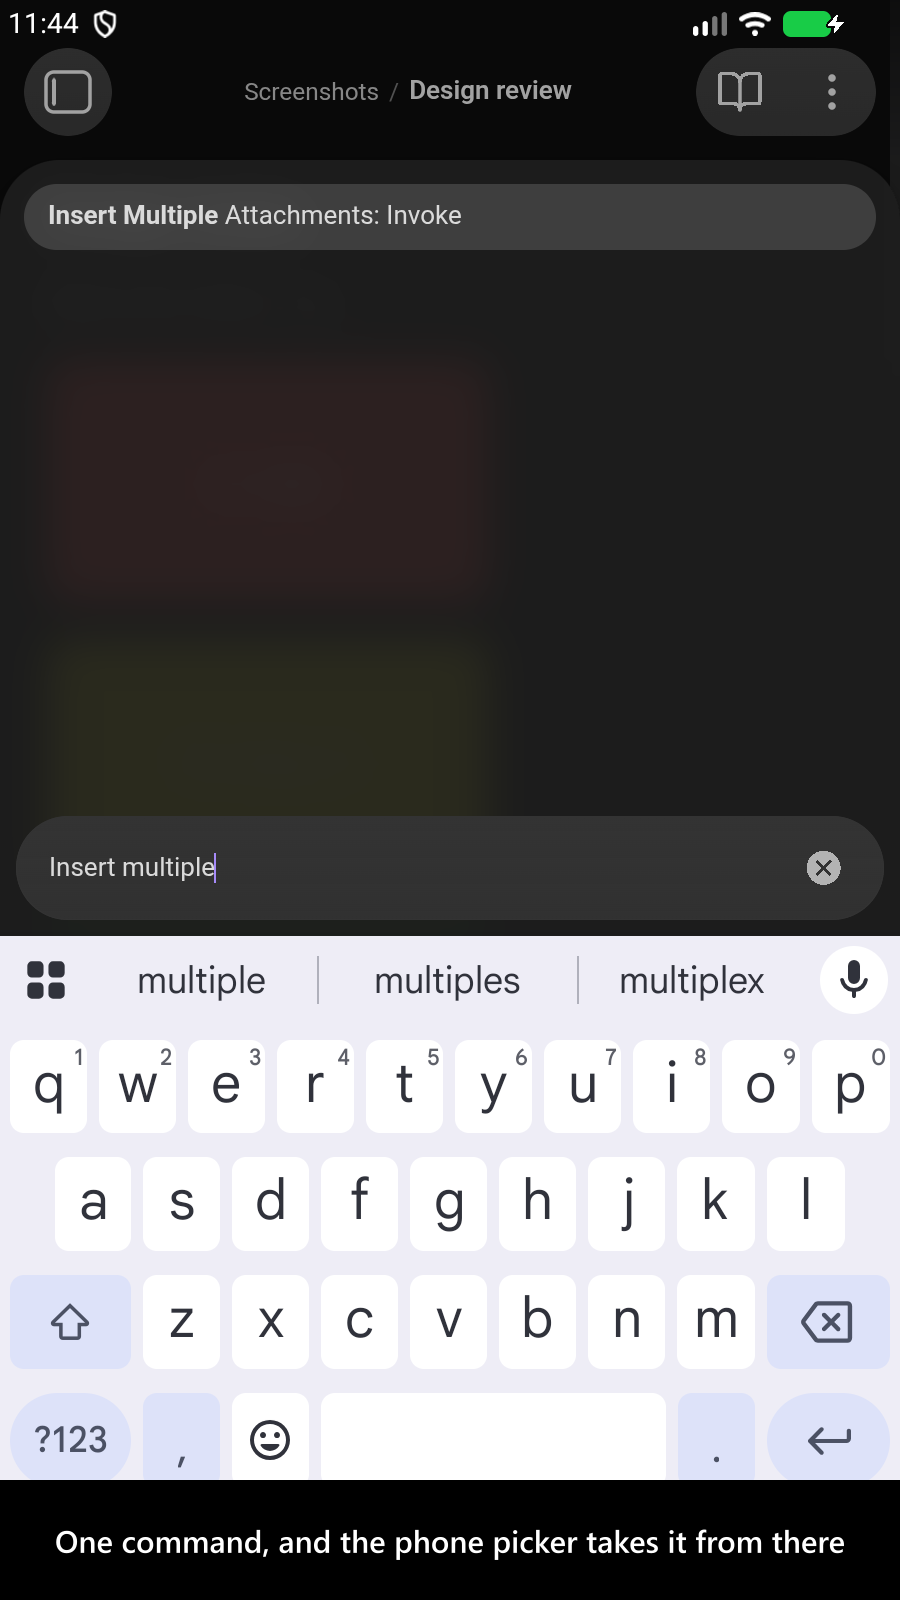
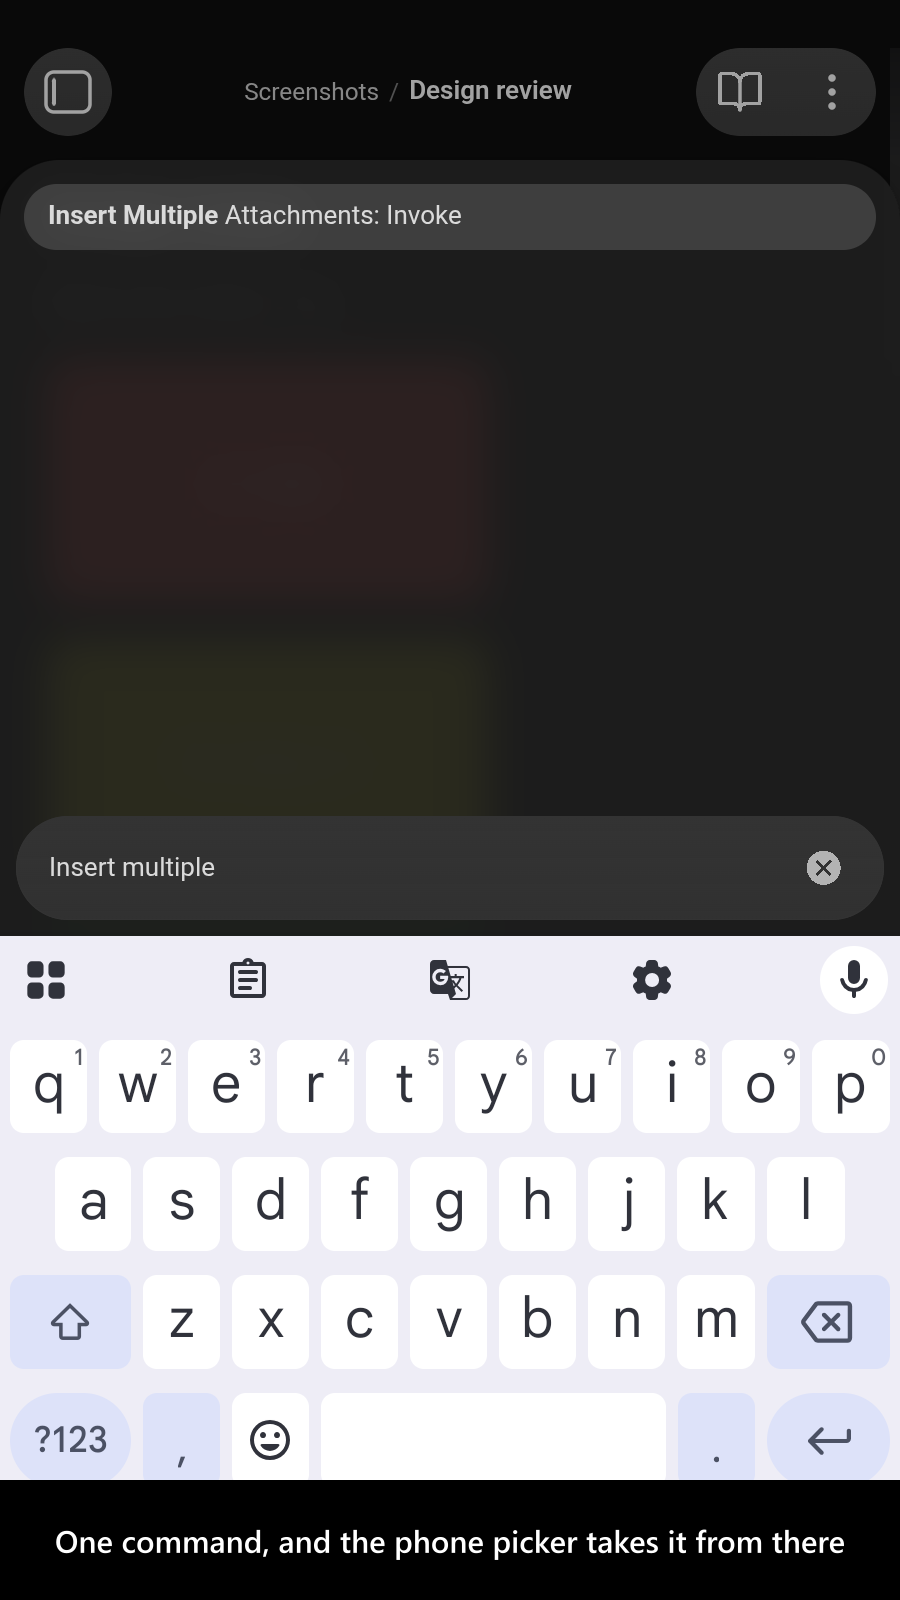
fix(screenshots): make the mobile command-palette frame repeatable
The palette frame is a device capture, so it carried the status-bar clock
and battery, and its keyboard strip flipped between the toolbar and word
predictions from run to run. The status bar is now painted out with
paintOutStatusBar at the 48px measured on this AVD, and
obsidian-integration-testing 17.2.0 pins the strip to the toolbar. Two
back-to-back capture runs now write byte-identical mobile frames.

diff --git a/src/screenshots.android-capture.integration.test.ts b/src/screenshots.android-capture.integration.test.ts
@@ -38,6 +38,7 @@ import {
   captureObsidianScreenshot,
   evalInObsidian,
   labelScreenshot,
+  paintOutStatusBar,
   raiseSoftKeyboard,
   readPngDimensions,
   resolveEmulatorDeviceId,
@@ -100,6 +101,18 @@ const INPUT_SELECTOR = '.prompt input';
  * machine, and the shared AVD the cross-platform suites drive is a different size.
  */
 const AVD_NAME = 'obsidian_screenshots';
+
+/**
+ * How tall the device's status bar is, in framebuffer pixels, for {@link shootWithSoftKeyboard}.
+ *
+ * The harness deliberately has no default for this, because a wrong height paints over the product rather
+ * than failing: it is one AVD's measurement, not a constant of Android. 24dp at this AVD's density 320,
+ * and measured on a palette frame rather than assumed: the bar's own content occupies rows 10 to 37, rows
+ * 38 to 47 are empty, and Obsidian's top chrome starts at exactly row 48. `paintOutStatusBar`'s own
+ * clear-of-chrome check fails the capture if that ever stops being true, so this number cannot go stale
+ * quietly.
+ */
+const STATUS_BAR_HEIGHT_IN_PIXELS = 48;
 
 let deviceId = '';
 
@@ -356,7 +369,7 @@ async function pickAttachments(): Promise<number> {
  * `images/screenshots/screenshot-mobile-<index>.png`.
  *
  * The page capture is byte-reproducible — no status bar, no clock — which is why the shot that shows the
- * saved attachments keeps it. Only a shot that has to show the keyboard gives that up; see
+ * saved attachments keeps it. Only a shot that has to show the keyboard captures the device instead; see
  * {@link shootWithSoftKeyboard}.
  *
  * @param index - The 1-based listing position.
@@ -381,8 +394,10 @@ async function shoot(index: number, caption: string): Promise<void> {
  * and puts the setting back exactly; and a WebView will not ask for an IME on programmatic focus alone,
  * so `raiseSoftKeyboard` lands a real touch on the field and proves geometrically that it lifted.
  *
- * The trade, which applies to this shot alone: a device capture is **not** byte-reproducible, because the
- * status-bar clock and the battery indicator are in it.
+ * A device capture carries the status bar, whose clock and battery change between runs, so the band is
+ * painted out with `paintOutStatusBar` before the frame is written. The keyboard's suggestion strip is the
+ * other thing that used to move: `raiseSoftKeyboard` parks the caret at the start of the field, so the keyboard
+ * shows its toolbar rather than word predictions that vary between runs.
  *
  * @param index - The 1-based listing position.
  * @param caption - The caption drawn across the bottom of the frame.
@@ -401,7 +416,7 @@ async function shootWithSoftKeyboard(index: number, caption: string): Promise<vo
     deviceId
   });
 
-  await writeFrame(index, caption, captured);
+  await writeFrame(index, caption, await paintOutStatusBar(captured, { heightInPixels: STATUS_BAR_HEIGHT_IN_PIXELS }));
 }
 
 function vaultPath(): string {

diff --git a/AGENTS.md b/AGENTS.md
@@ -46,7 +46,8 @@ Insert Multiple Attachments is an Obsidian plugin that allows inserting multiple
 
 `npm run capture:screenshots` writes the two community-store mobile frames. The two frames are captured by **different routes on purpose**, and the difference is load-bearing:
 
-- **Frame 1 — the saved attachments — captures the PAGE** (`captureObsidianScreenshot`), which is byte-reproducible: no status bar and no clock, so re-capturing it produces identical bytes and an unchanged frame leaves no diff.
-- **Frame 2 — the command palette — captures the DEVICE** (`captureDeviceScreenshot`), with the soft keyboard raised first. A page capture cannot show a keyboard: it drives Appium in the WebView context, so it photographs the page, and the IME is a system window that is not part of the page. That left this frame as a search field floating over an empty band across three quarters of the image — honest about the DOM and misleading about the phone. **The cost is that frame 2 is no longer byte-reproducible**, because the status-bar clock and the battery indicator are in it. Do not "fix" that churn by putting it back on the page capture, and do not switch frame 1 over for consistency — a shot with no focused field gets no keyboard on a real phone either, so raising one there would make the frame less true.
+- **Frame 1 — the saved attachments — captures the PAGE** (`captureObsidianScreenshot`), which is byte-reproducible as captured: no status bar and no clock, so re-capturing it produces identical bytes and an unchanged frame leaves no diff.
+- **Frame 2 — the command palette — captures the DEVICE** (`captureDeviceScreenshot`), with the soft keyboard raised first. A page capture cannot show a keyboard: it drives Appium in the WebView context, so it photographs the page, and the IME is a system window that is not part of the page. That left this frame as a search field floating over an empty band across three quarters of the image — honest about the DOM and misleading about the phone. Do not put it back on the page capture, and do not switch frame 1 over for consistency — a shot with no focused field gets no keyboard on a real phone either, so raising one there would make the frame less true.
+- **Frame 2 is made repeatable by two things, and without either it churns on every run.** The status bar's clock and battery are painted out with `paintOutStatusBar` (height `STATUS_BAR_HEIGHT_IN_PIXELS`, measured on this AVD, not assumed; the helper's clear-of-chrome check fails the capture if it goes stale). The keyboard's suggestion strip used to flip between the keyboard's toolbar and word predictions run to run; `raiseSoftKeyboard` (obsidian-integration-testing 17.2.0+) parks the caret at the start of the field so the toolbar is always what shows.
 - **Raising the keyboard takes TWO things**, which is why both belong to `obsidian-integration-testing` rather than being copied in here. The AVD is built with a hardware keyboard attached, so Android suppresses the on-screen one entirely — `withSoftKeyboardEnabled` lifts that for the duration of the shot and restores the device exactly, including restoring a setting that had never been written, which takes a delete rather than a write. And a WebView will not ask for an IME on programmatic focus alone: `raiseSoftKeyboard` lands a real touch on the field and then proves geometrically that it lifted, because nothing in the page reports the keyboard — `innerHeight`, `visualViewport` and the modal container all keep their full height with it shown.
 - **The field it touches is read off the suite, not assumed.** The command palette renders `.prompt input`, which is not the `.prompt-input` a suggester renders.
